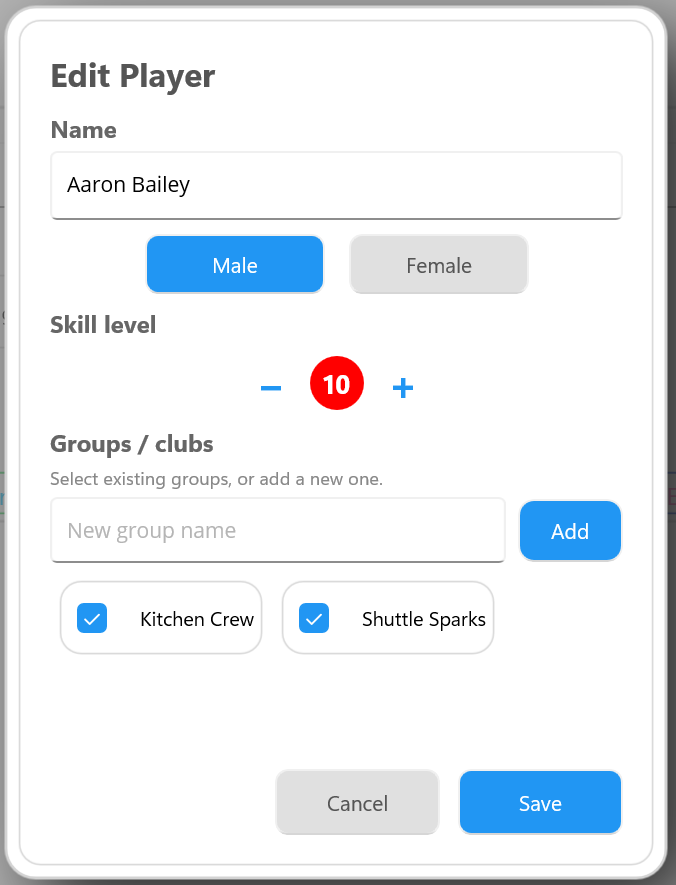
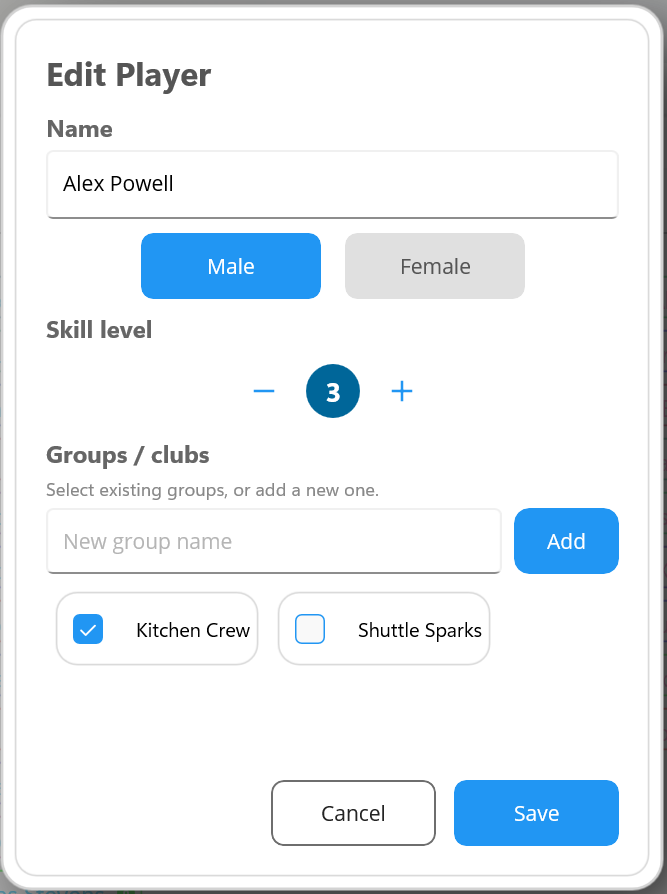
Refresh Edit Player group membership screenshot

diff --git a/help/02-players.md b/help/02-players.md
@@ -79,11 +79,11 @@ Because Session Profiles refer to the master player list, any changes you make a
 
 The editor shows the player's current group memberships. Select or clear groups, then save the changes.
 
-<img src="images/group-assignment.png?v=3.5.0"
-     alt="Edit Player dialog with the player assigned to two groups"
+<img src="images/group-assignment.png?v=4.1.1"
+     alt="Edit Player dialog for Alex Powell, with Kitchen Crew selected, Shuttle Sparks unselected, and Cancel and Save buttons"
      width="500">
 
-*A player can be assigned to more than one group or club.*
+*Kitchen Crew is selected for this player. Select additional groups to assign more than one membership, then choose Save.*
 
 ---
 
